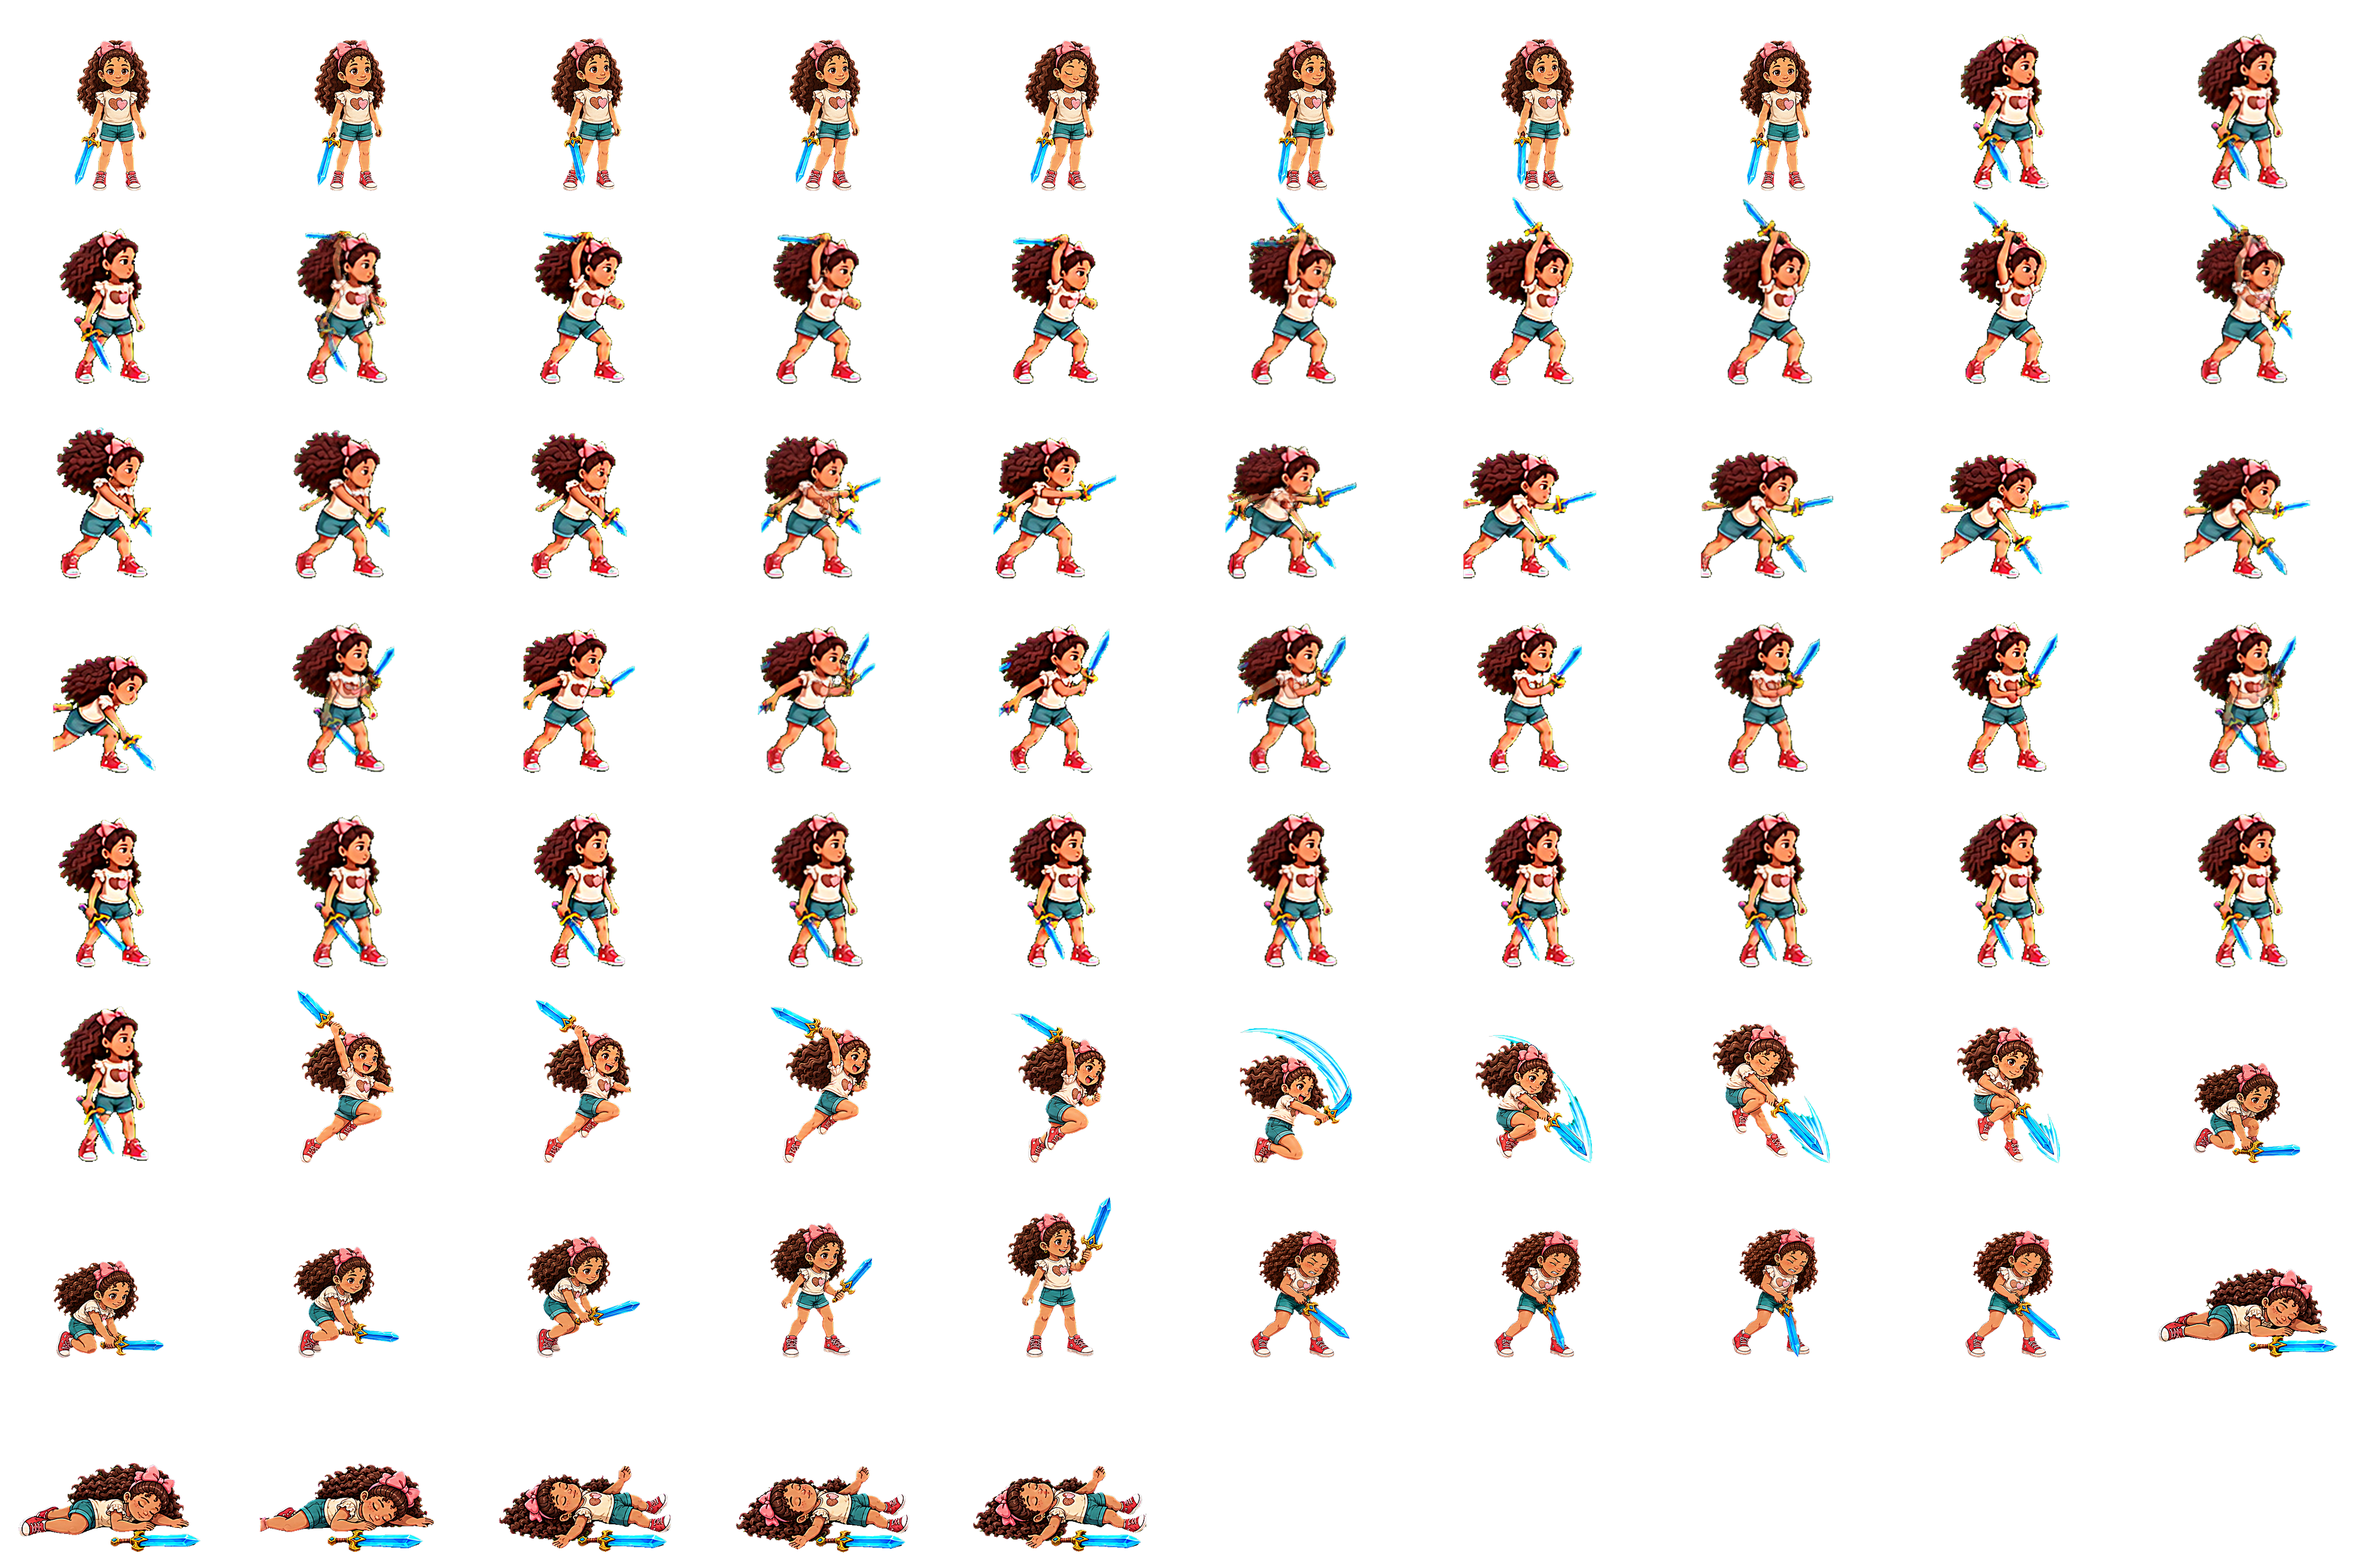
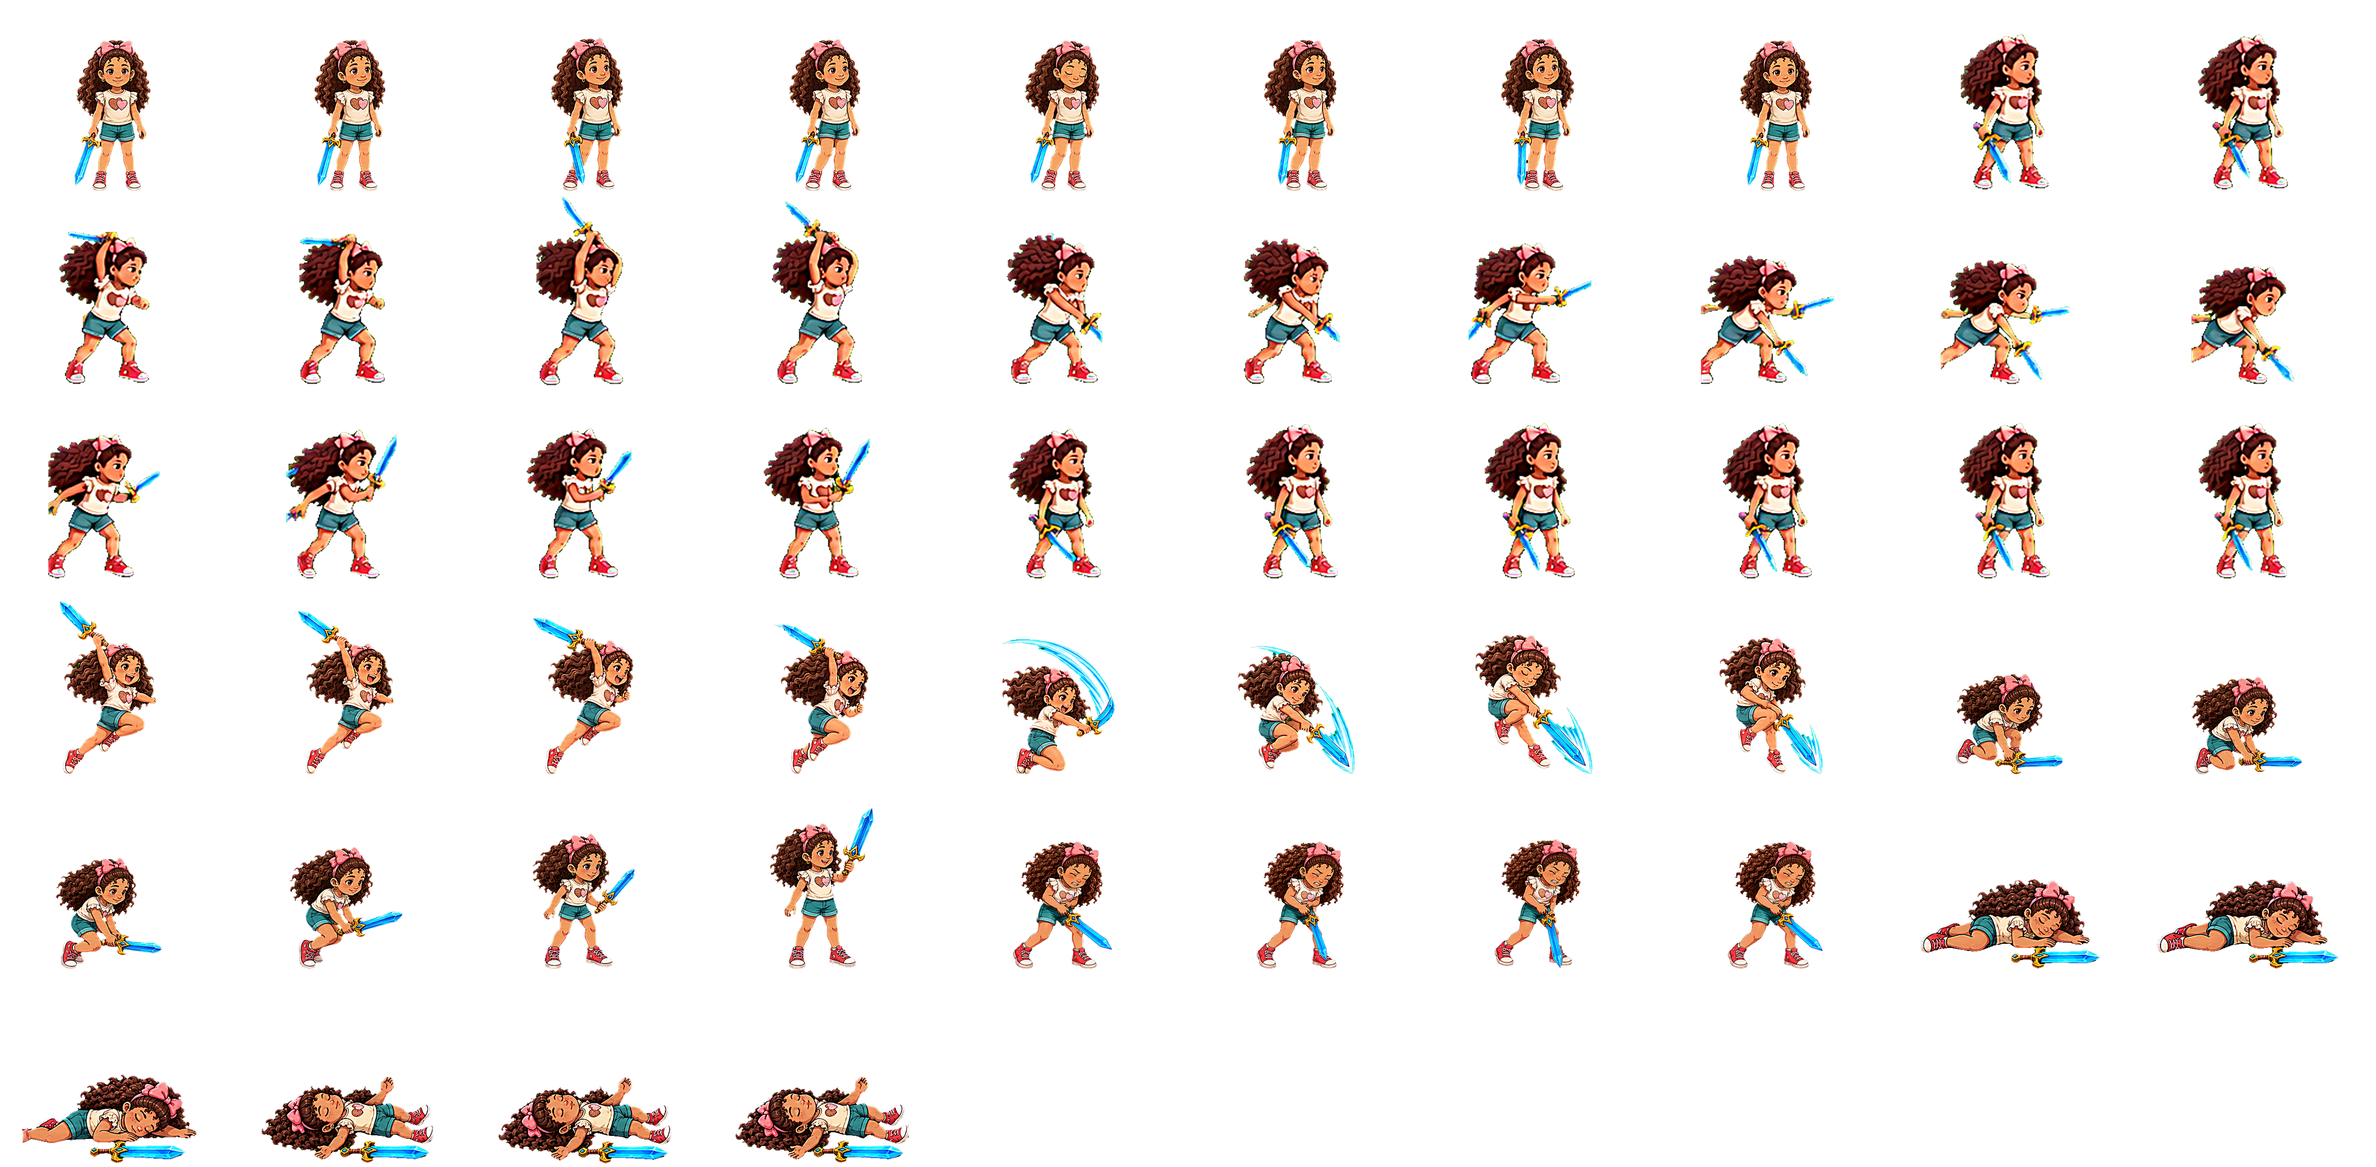
v80: heal burst + B2 sound, sword swing reverted to original 22f, versionCode 44

diff --git a/src/effects/VisualFX.ts b/src/effects/VisualFX.ts
@@ -227,6 +227,68 @@ export class VisualFX {
     this.landDust(x + 80, y + 120);
   }
 
+  /** Heal burst (Angelo-approved GIF 2026-11-12, v80): small mint pluses
+   *  rising from Angely's body, centered slightly left on her. 7 pluses,
+   *  staggered 0-0.48s, rise ~50px over ~0.95s, fade out at the top; 8 tiny
+   *  mint sparkles twinkle on her body + a faint mint glow. Plays on heart
+   *  pickup (when it heals) and on checkpoint touch. Full life + heart =
+   *  nothing — gated by Player.heal() in GameScene.checkPickups, so this
+   *  method only ever runs on a real heal. */
+  healBurst(x: number, y: number): void {
+    const MINT = 0x6ef2a8;
+    // (dx, dy, size px, spawn delay ms) — mirrors the approved GIF.
+    const PLUSES: Array<[number, number, number, number]> = [
+      [-6, 10, 12, 0],
+      [7, 0, 10, 80],
+      [-2, -12, 13, 160],
+      [9, 8, 9, 240],
+      [-8, -2, 11, 320],
+      [4, -18, 9, 400],
+      [-10, 4, 10, 480],
+    ];
+    for (const [dx, dy, size, delay] of PLUSES) {
+      this.scene.time.delayedCall(delay, () => {
+        const img = this.scene.add.image(x + dx, y + dy, "heal_plus").setTint(MINT).setDepth(50).setAlpha(0).setScale(size / 32);
+        this.scene.tweens.add({
+          targets: img,
+          y: y + dy - 50,
+          x: x + dx + 2,
+          duration: 950,
+          ease: "Cubic.easeOut",
+          onUpdate: (tween: Phaser.Tweens.Tween) => {
+            const p = tween.progress;
+            img.setAlpha(p < 0.1 ? p / 0.1 : p > 0.65 ? 1 - (p - 0.65) / 0.35 : 1);
+          },
+          onComplete: () => img.destroy(),
+        });
+      });
+    }
+    // Tiny sparkles twinkling on her body.
+    const sparks = this.scene.add.particles(x, y, "dot", {
+      x: { min: -14, max: 14 },
+      y: { min: -25, max: 20 },
+      lifespan: 700,
+      speed: { min: 0, max: 8 },
+      scale: { start: 0.35, end: 0 },
+      alpha: { start: 0.9, end: 0 },
+      tint: MINT,
+      blendMode: Phaser.BlendModes.ADD,
+      frequency: 90,
+    });
+    sparks.setDepth(50);
+    this.scene.time.delayedCall(900, () => sparks.destroy());
+    // Faint mint glow on the body.
+    const glow = this.scene.add.image(x, y - 10, "glow").setTint(MINT).setDepth(49).setAlpha(0).setScale(0.5);
+    this.scene.tweens.add({
+      targets: glow,
+      alpha: 0.22,
+      duration: 120,
+      onComplete: () => {
+        this.scene.tweens.add({ targets: glow, alpha: 0, duration: 700, onComplete: () => glow.destroy() });
+      },
+    });
+  }
+
   /** Golden rising sparkle column for checkpoint activation. */
   checkpointSparkle(x: number, y: number): void {
     const sparks = this.scene.add.particles(x, y, "dot", {

diff --git a/src/audio/AudioManager.ts b/src/audio/AudioManager.ts
@@ -309,6 +309,10 @@ class AudioManagerImpl {
       case "ground_slam": this.tone(t, 90, 0.35, "sine", 0.5, 40); this.noise(t, 0.3, 0.3, 400, "lowpass"); break;
       case "player_hurt": this.tone(t, 520, 0.22, "sawtooth", 0.22, 180); break;
       case "heart_pickup": [0, 4, 7, 12].forEach((n, i) => this.tone(t + i * 0.06, midi(76 + n), 0.14, "triangle", 0.2)); break;
+      // v80 heal (Angelo's pick 2026-11-12: "B2 Arpegio bajo"): soft sine
+      // G4 -> C5 -> E5, slow 50ms attack, low volume. NOT in VARIED_SFX —
+      // the chord must stay in tune. Replaces heart_pickup on a real heal.
+      case "heal": [67, 72, 76].forEach((n, i) => this.tone(t + i * 0.12, midi(n), 0.7, "sine", 0.12, undefined, undefined, 0.05)); break;
       case "sword_pickup": [0, 4, 7, 12, 16].forEach((n, i) => this.tone(t + i * 0.09, midi(67 + n), 0.3, "square", 0.14)); break;
       case "checkpoint": this.tone(t, midi(72), 0.12, "triangle", 0.2); this.tone(t + 0.12, midi(79), 0.25, "triangle", 0.2); break;
       case "portal_unlock": [0, 7, 12, 16, 19, 24].forEach((n, i) => this.tone(t + i * 0.07, midi(64 + n), 0.5, "sine", 0.16)); break;
@@ -349,7 +353,7 @@ class AudioManagerImpl {
     }
   }
 
-  private tone(t: number, f: number, dur: number, type: OscillatorType, vol: number, slideTo?: number, bus?: GainNode) {
+  private tone(t: number, f: number, dur: number, type: OscillatorType, vol: number, slideTo?: number, bus?: GainNode, attack = 0.01) {
     const ctx = this.ctx!;
     const o = ctx.createOscillator();
     const g = ctx.createGain();
@@ -360,7 +364,7 @@ class AudioManagerImpl {
     o.frequency.setValueAtTime(f * pitch, t);
     if (slideTo) o.frequency.exponentialRampToValueAtTime(slideTo * pitch, t + dur);
     g.gain.setValueAtTime(0.0001, t);
-    g.gain.exponentialRampToValueAtTime(vol, t + 0.01);
+    g.gain.exponentialRampToValueAtTime(vol, t + attack);
     g.gain.exponentialRampToValueAtTime(0.0001, t + dur);
     o.connect(g).connect(bus ?? this.sfxBus!);
     o.start(t);

diff --git a/src/scenes/GameScene.ts b/src/scenes/GameScene.ts
@@ -926,7 +926,11 @@ export class GameScene extends Phaser.Scene {
       if (!Phaser.Geom.Rectangle.Overlaps(pb, hb)) continue;
       if (this.player.heal()) {
         h.taken = true;
-        Audio.sfx("heart_pickup");
+        // v80: real heal only (heal() is false at full life, so the heart
+        // stays and nothing plays — Angelo's rule 2026-11-12). New soft
+        // sound (B2 Arpegio bajo) + small mint pluses from her body.
+        Audio.sfx("heal");
+        this.vfx.healBurst(this.player.x, this.player.body.center.y - 10);
         Barks.play(this, ["angely_bark_03"], 0.4);
         this.tweens.killTweensOf(h.sprite);
         this.tweens.add({ targets: h.sprite, scale: h.sprite.scale * 2, alpha: 0, y: h.sprite.y - 30, duration: 350, onComplete: () => h.sprite.destroy() });
@@ -979,6 +983,8 @@ export class GameScene extends Phaser.Scene {
         this.toast("Checkpoint! Hearts restored!");
         this.fx("fx_spark", "hit", c.spot.x, c.spot.y - 70, 0.3, 0xffe27a);
         this.vfx.checkpointSparkle(c.spot.x, c.spot.y - 70);
+        // v80: the same small heal burst from her body on checkpoint touch.
+        this.vfx.healBurst(this.player.x, this.player.body.center.y - 10);
       }
     }
 

diff --git a/src/entities/Player.ts b/src/entities/Player.ts
@@ -33,11 +33,8 @@ interface AttackTiming {
 }
 
 const ATTACK_TIMING: Record<WeaponId, AttackTiming> & { sword_air: AttackTiming } = {
-  // Slash — v79: 43f @185fps (22f doubled by DIS interpolation; the full
-  // swing now completes inside the 290ms state instead of playing cut
-  // short). windup/strike ends rescaled x2 with the frames so the hit
-  // window keeps the same share of the swing (was 2/5 on 22f).
-  sword: { windupEnd: 5, strikeEnd: 11, windupScale: 0.55, strikeScale: 1.5, recoveryScale: 0.8, stateMs: 290 },
+  // Slash — ORIGINAL v65 timing (11f @34fps values; 2x strip is 22f, plays cut short).
+  sword: { windupEnd: 2, strikeEnd: 5, windupScale: 0.55, strikeScale: 1.5, recoveryScale: 0.8, stateMs: 290 },
   // Air slash — ORIGINAL v65 timing (4f @14fps values; 2x strip is 8f).
   sword_air: { windupEnd: 1, strikeEnd: 3, windupScale: 0.8, strikeScale: 1.4, recoveryScale: 0.9, stateMs: 250 },
   // Smash 24f @27fps (2x strips, v66 — KEPT per Angelo 2026-11-07: he likes the smash).

diff --git a/src/assets/sprites.gen.ts b/src/assets/sprites.gen.ts
@@ -1120,35 +1120,35 @@ export const SPRITES = {
       },
       "slash": {
         "start": 8,
-        "end": 50,
-        "fps": 185,
+        "end": 29,
+        "fps": 34,
         "repeat": 0,
         "h": 315
       },
       "jump_attack": {
-        "start": 51,
-        "end": 58,
+        "start": 30,
+        "end": 37,
         "fps": 14,
         "repeat": 0,
         "h": 290
       },
       "pickup": {
-        "start": 59,
-        "end": 64,
+        "start": 38,
+        "end": 43,
         "fps": 4,
         "repeat": 0,
         "h": 270
       },
       "hurt": {
-        "start": 65,
-        "end": 68,
+        "start": 44,
+        "end": 47,
         "fps": 8,
         "repeat": 0,
         "h": 216
       },
       "defeat": {
-        "start": 69,
-        "end": 74,
+        "start": 48,
+        "end": 53,
         "fps": 5,
         "repeat": 0,
         "h": 151

diff --git a/src/assets/manifest.ts b/src/assets/manifest.ts
@@ -108,6 +108,15 @@ export function buildSharedTextures(scene: Phaser.Scene) {
     ctx.fillRect(0, 0, 128, 128);
     tex.refresh();
   }
+  if (!scene.textures.exists("heal_plus")) {
+    // White plus (tinted mint at spawn) for the heal burst — v80.
+    const g = scene.make.graphics({ x: 0, y: 0 }, false);
+    g.fillStyle(0xffffff, 1);
+    g.fillRoundedRect(12, 2, 8, 28, 4);
+    g.fillRoundedRect(2, 12, 28, 8, 4);
+    g.generateTexture("heal_plus", 32, 32);
+    g.destroy();
+  }
   if (!scene.textures.exists("vignette")) {
     const tex = scene.textures.createCanvas("vignette", 256, 144)!;
     const ctx = tex.getContext();

diff --git a/src/audio/manifest.ts b/src/audio/manifest.ts
@@ -21,6 +21,7 @@ export type SfxName =
   | "ground_slam"
   | "player_hurt"
   | "heart_pickup"
+  | "heal"
   | "checkpoint"
   | "portal_unlock"
   | "portal_enter"
